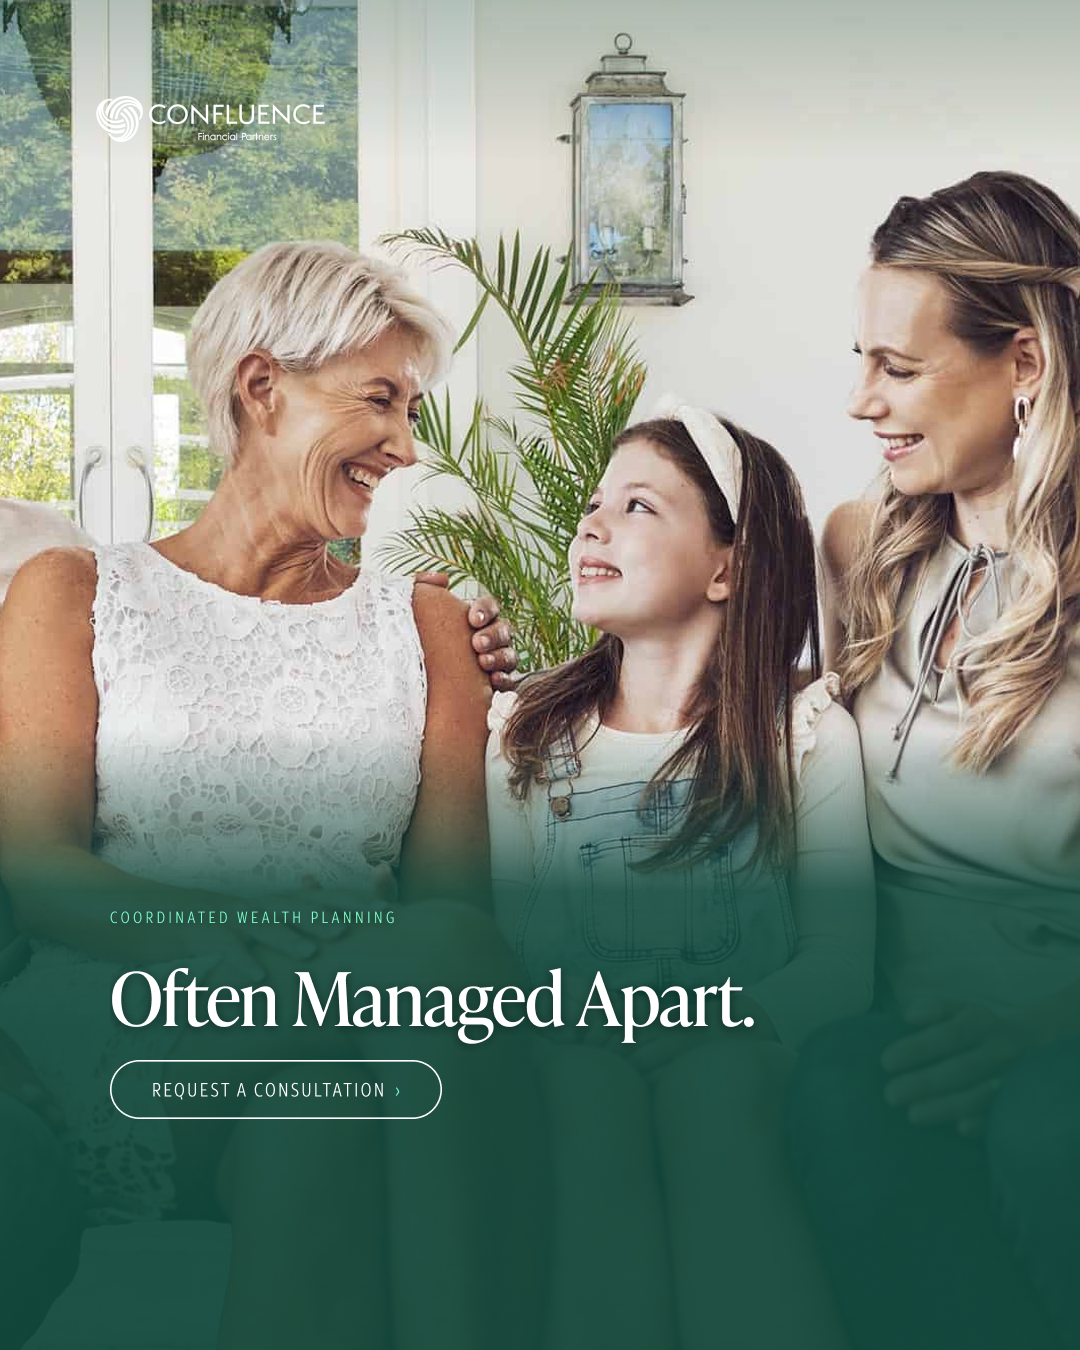
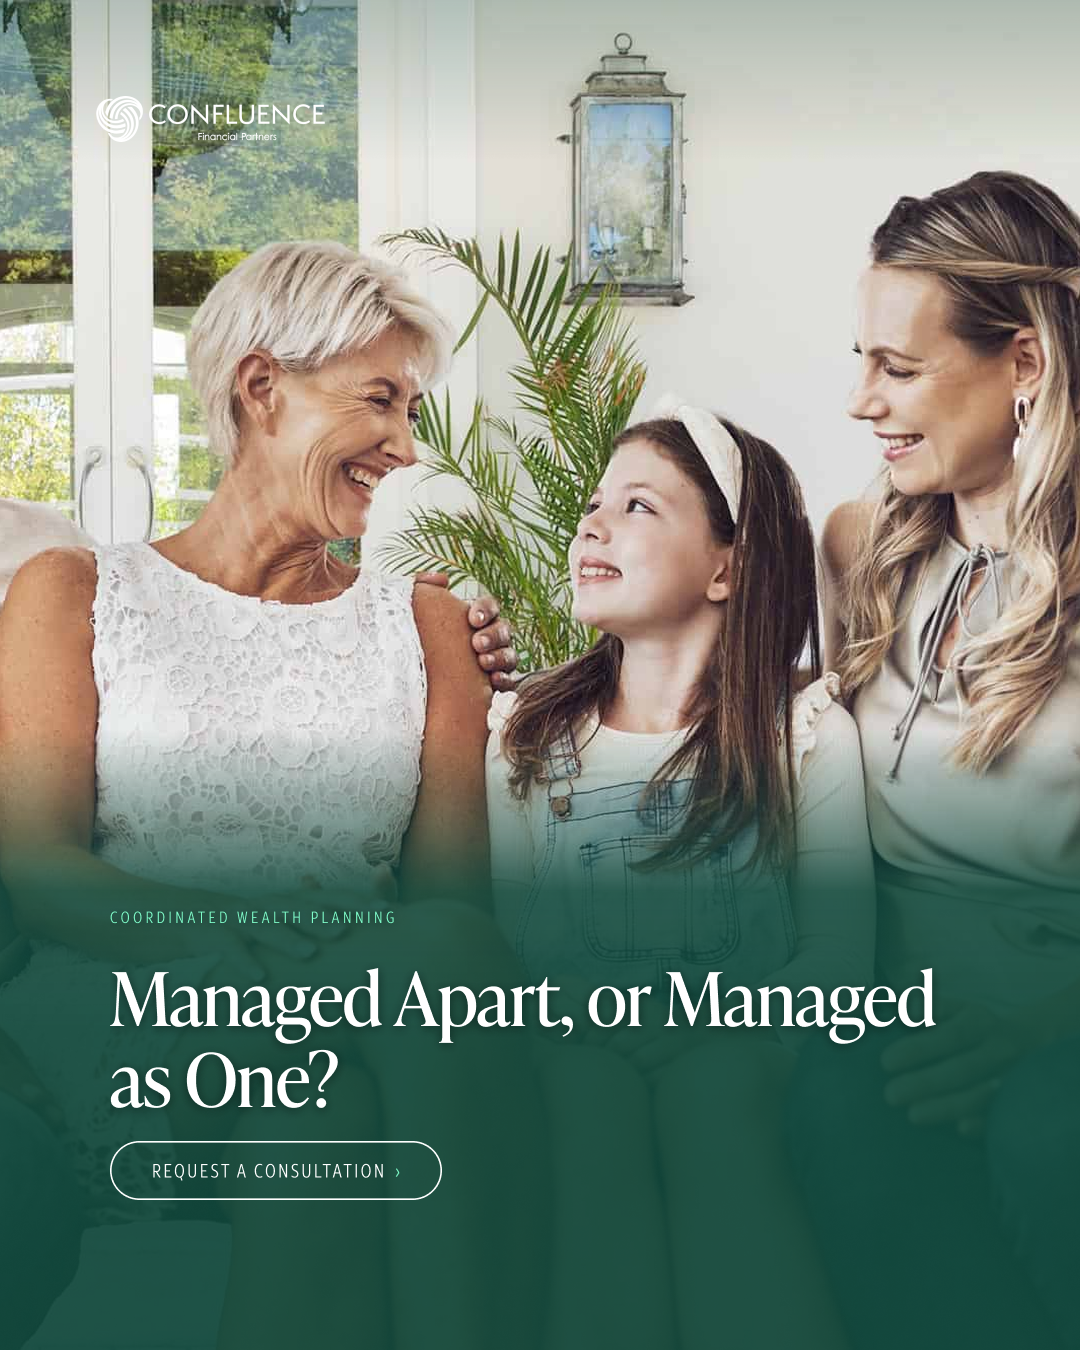
ad10: update on-image headline to "Managed Apart, or Managed as One?"
Feed + story re-rendered from Figma with the rev2-gated headline (was
"Often Managed Apart."). New 2-line wrap holds the Max-scrim text band:
feed 1.17% / story 1.13% below 4.5:1 (<2% gate). Feed CTA bottom margin
150px (at the safe-zone floor). Cache-bust stamp bumped.

Changed region(s): [[0.0917, 0.7156, 0.8861, 0.8711]]

diff --git a/confluence-fp-consultation/index.html b/confluence-fp-consultation/index.html
@@ -1199,7 +1199,7 @@ let _activeImageVersion = {};
 let _placementIdx = {};
 let _feedbackCache = {};
 const CAMPAIGN_ID = 'confluence-fp-consultation';
-const ASSET_V = '1785181582';  // cache-bust token, stamped at bake time
+const ASSET_V = '1785182917';  // cache-bust token, stamped at bake time
 
 // ── Utility ────────────────────────────────────────────────────────────────
 function esc(s) {
